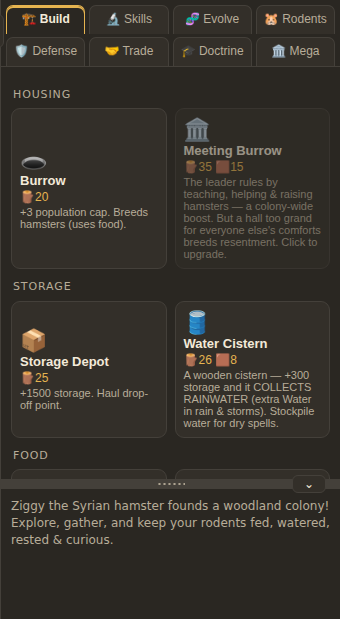
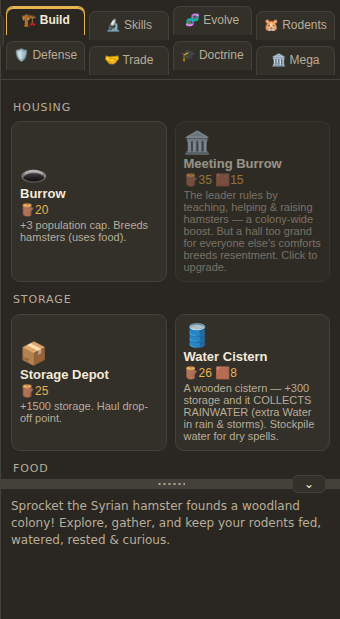
Tabs: add slight zigzag so the two rows read clearly
Alternate tabs sit 5px lower — an obvious two-row stagger without overflowing the
pane; all 8 labels stay visible. Refreshes the board screenshot.

Claude-Session: https://claude.ai/code/session_01VkZMw1gEZZfsF7AJVLd9bq

diff --git a/styles.css b/styles.css
@@ -215,15 +215,18 @@ body {
 /* Sidebar */
 #sidebar { width: 340px; background: var(--panel); border-left: 1px solid var(--line);
   display: flex; flex-direction: column; min-height: 0; }
-/* Tabs: a double-stacked 4×2 grid of folder-style "section" tabs so all eight
-   fit visibly in the 340px pane (a single flex row clipped their labels). Each
-   reads as a boxed section label; the active one lifts onto the pane below it. */
-.tabs { display: grid; grid-template-columns: repeat(4, 1fr); gap: 3px 4px;
-  padding: 5px 5px 0; border-bottom: 1px solid var(--line); background: var(--panel); }
+/* Tabs: a double-stacked 4×2 grid of folder-style "section" tabs so all eight fit
+   visibly in the 340px pane (a single flex row clipped their labels). Alternate
+   tabs sit a few px lower — a slight zigzag that makes the two rows obvious at a
+   glance. Each reads as a boxed section label; the active one gets an accent bar. */
+.tabs { display: grid; grid-template-columns: repeat(4, 1fr); gap: 6px 4px;
+  align-items: start; padding: 6px 5px 9px; border-bottom: 1px solid var(--line);
+  background: var(--panel); }
 .tabbtn { background: var(--panel2); border: 1px solid var(--line); border-bottom: none;
   border-radius: 7px 7px 0 0; color: var(--muted); padding: 7px 5px; cursor: pointer;
   font-size: 12px; line-height: 1.15; text-align: center; white-space: nowrap;
   overflow: hidden; text-overflow: ellipsis; transition: background .12s, color .12s; }
+.tabbtn:nth-child(even) { transform: translateY(5px); } /* the zigzag */
 .tabbtn:hover { color: var(--ink); background: var(--panel); }
 .tabbtn.active { color: var(--ink); background: var(--panel); border-color: var(--accent);
   font-weight: 600; box-shadow: inset 0 2px 0 var(--accent); }

diff --git a/docs/project/PROJECT_STATUS.md b/docs/project/PROJECT_STATUS.md
@@ -2,7 +2,7 @@
 
 > **Generated from `docs/project/board_state.json` by `tools/render_board.py`.** Read this file to answer *what's todo / done / in-CI / deferred* without hitting the GitHub API. It is rewritten on every push to `main` by the on-main compaction job (`compact_board_fragments` re-runs this renderer).
 
-_board_state.json updated: 2026-06-26T07:15:49Z · 76 items_
+_board_state.json updated: 2026-06-26T07:20:04Z · 76 items_
 
 ## Summary
 
